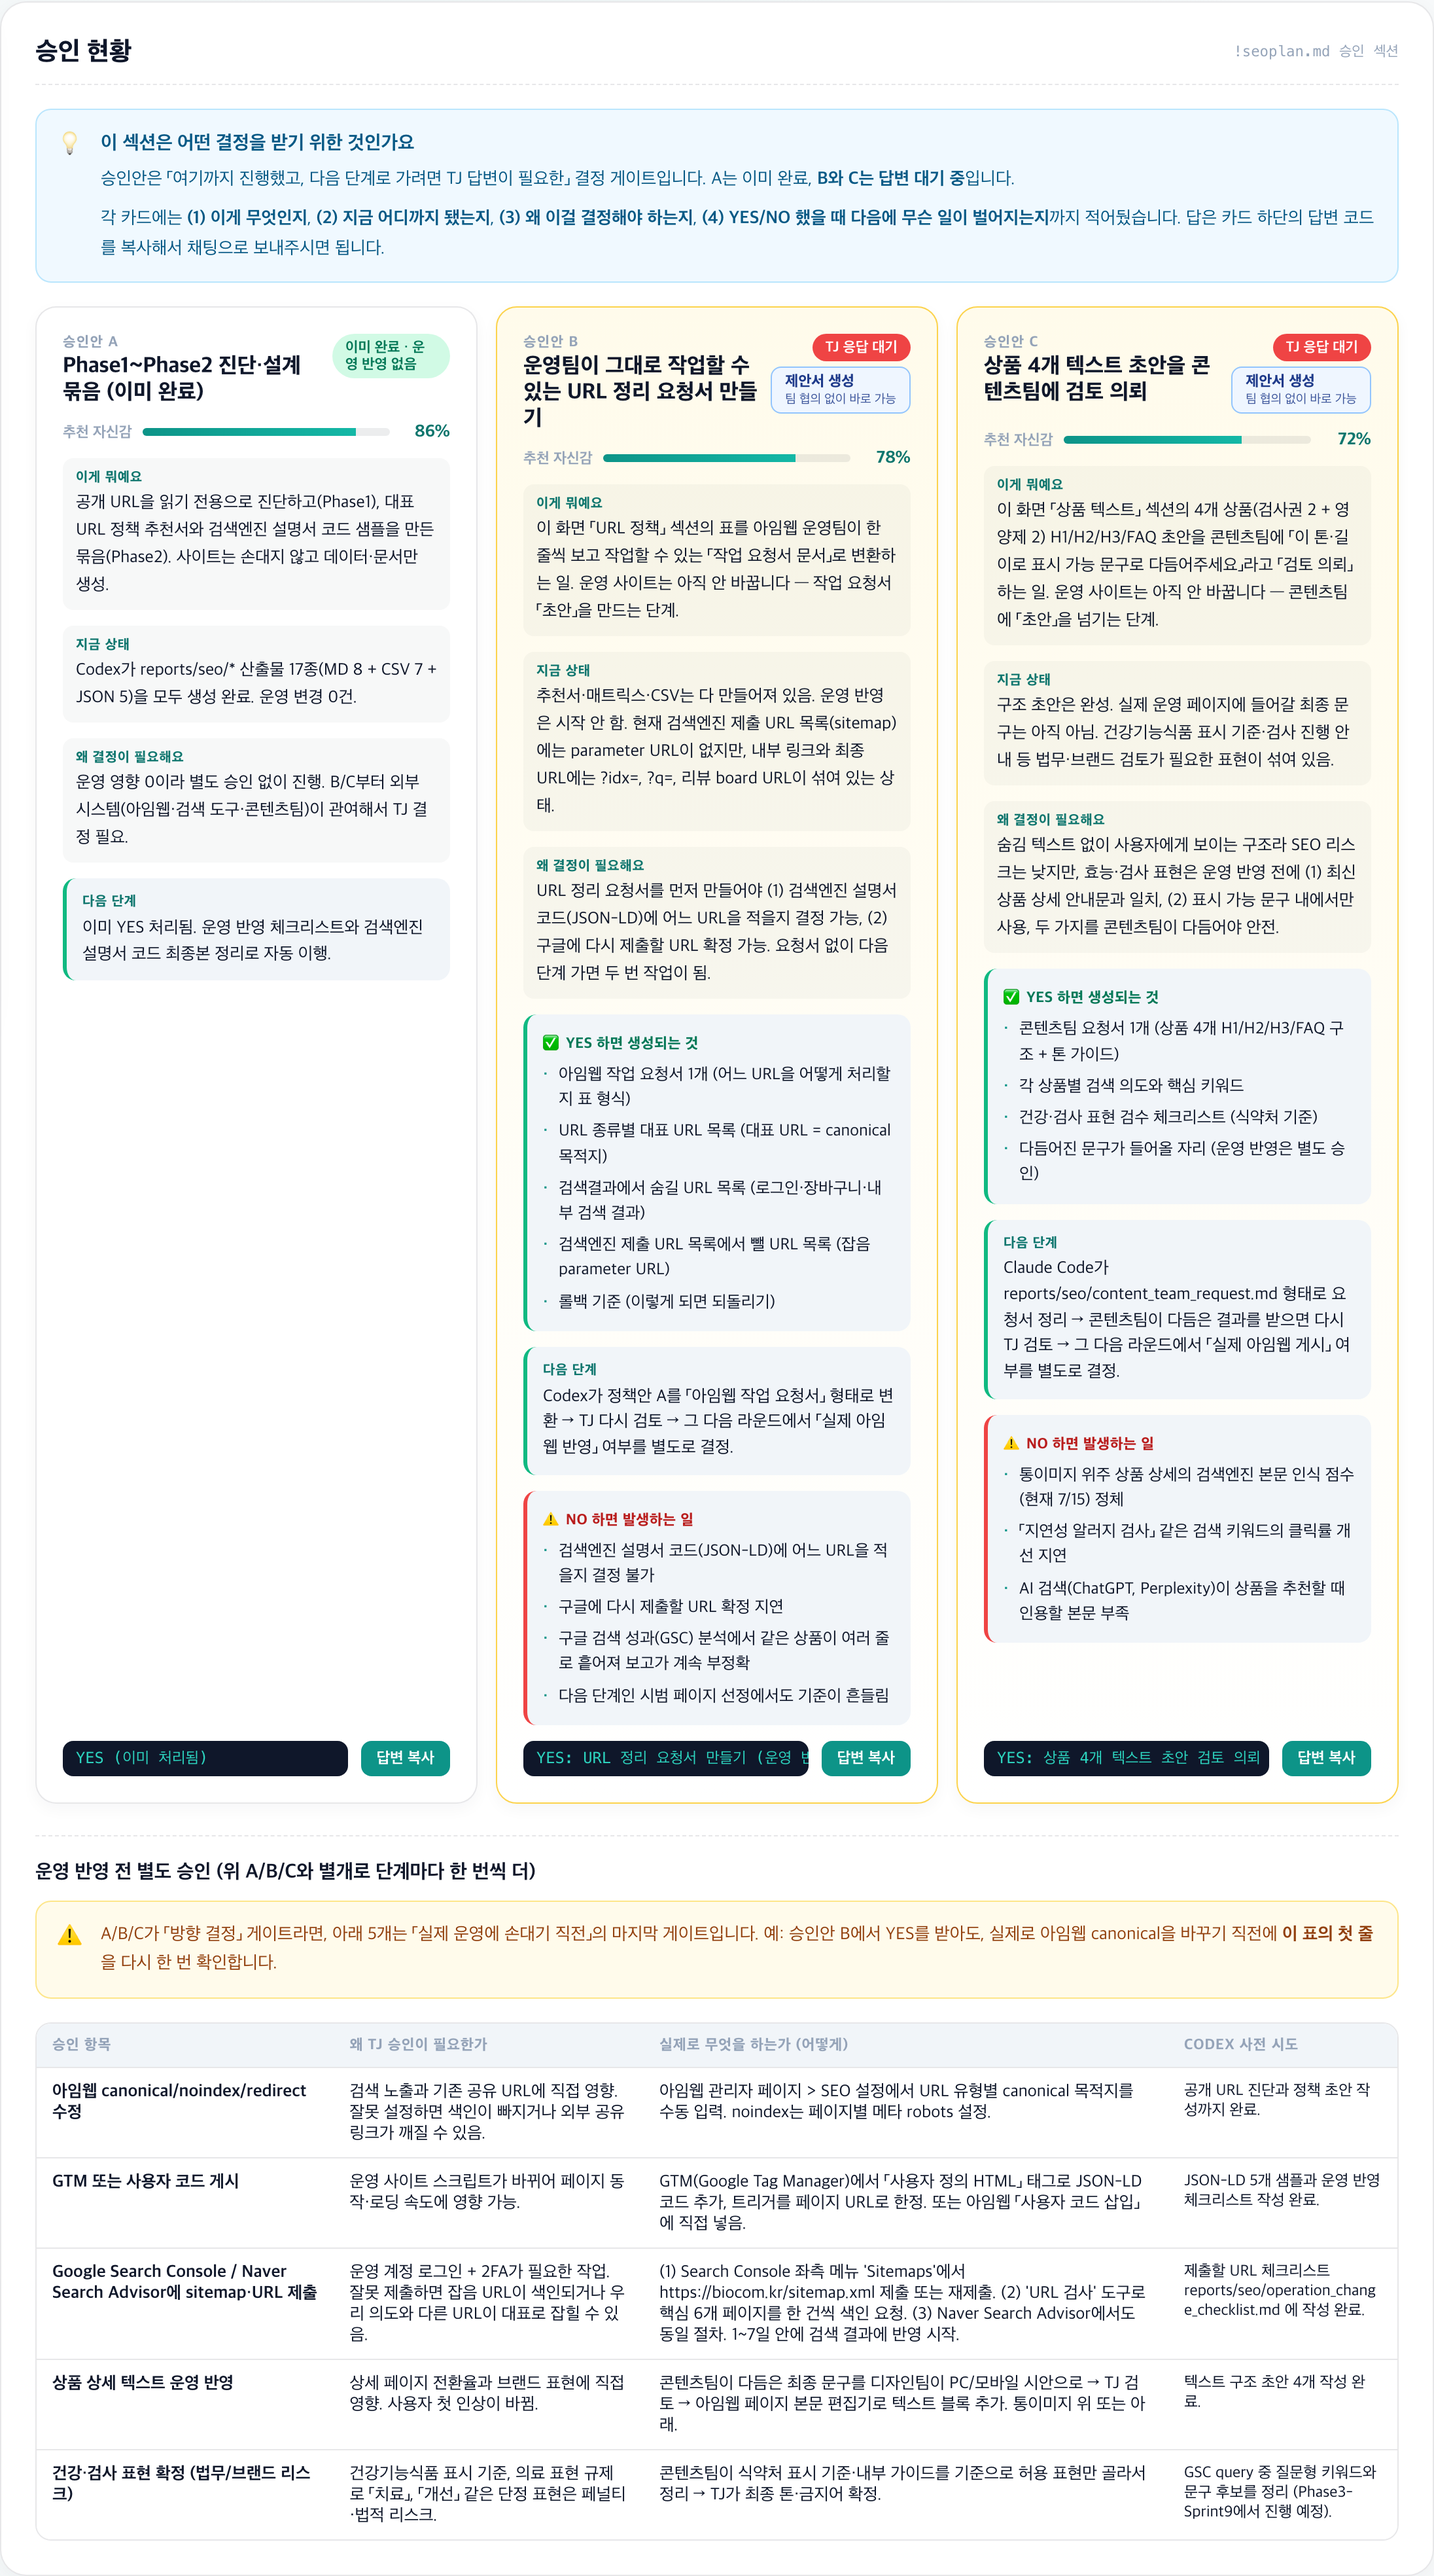
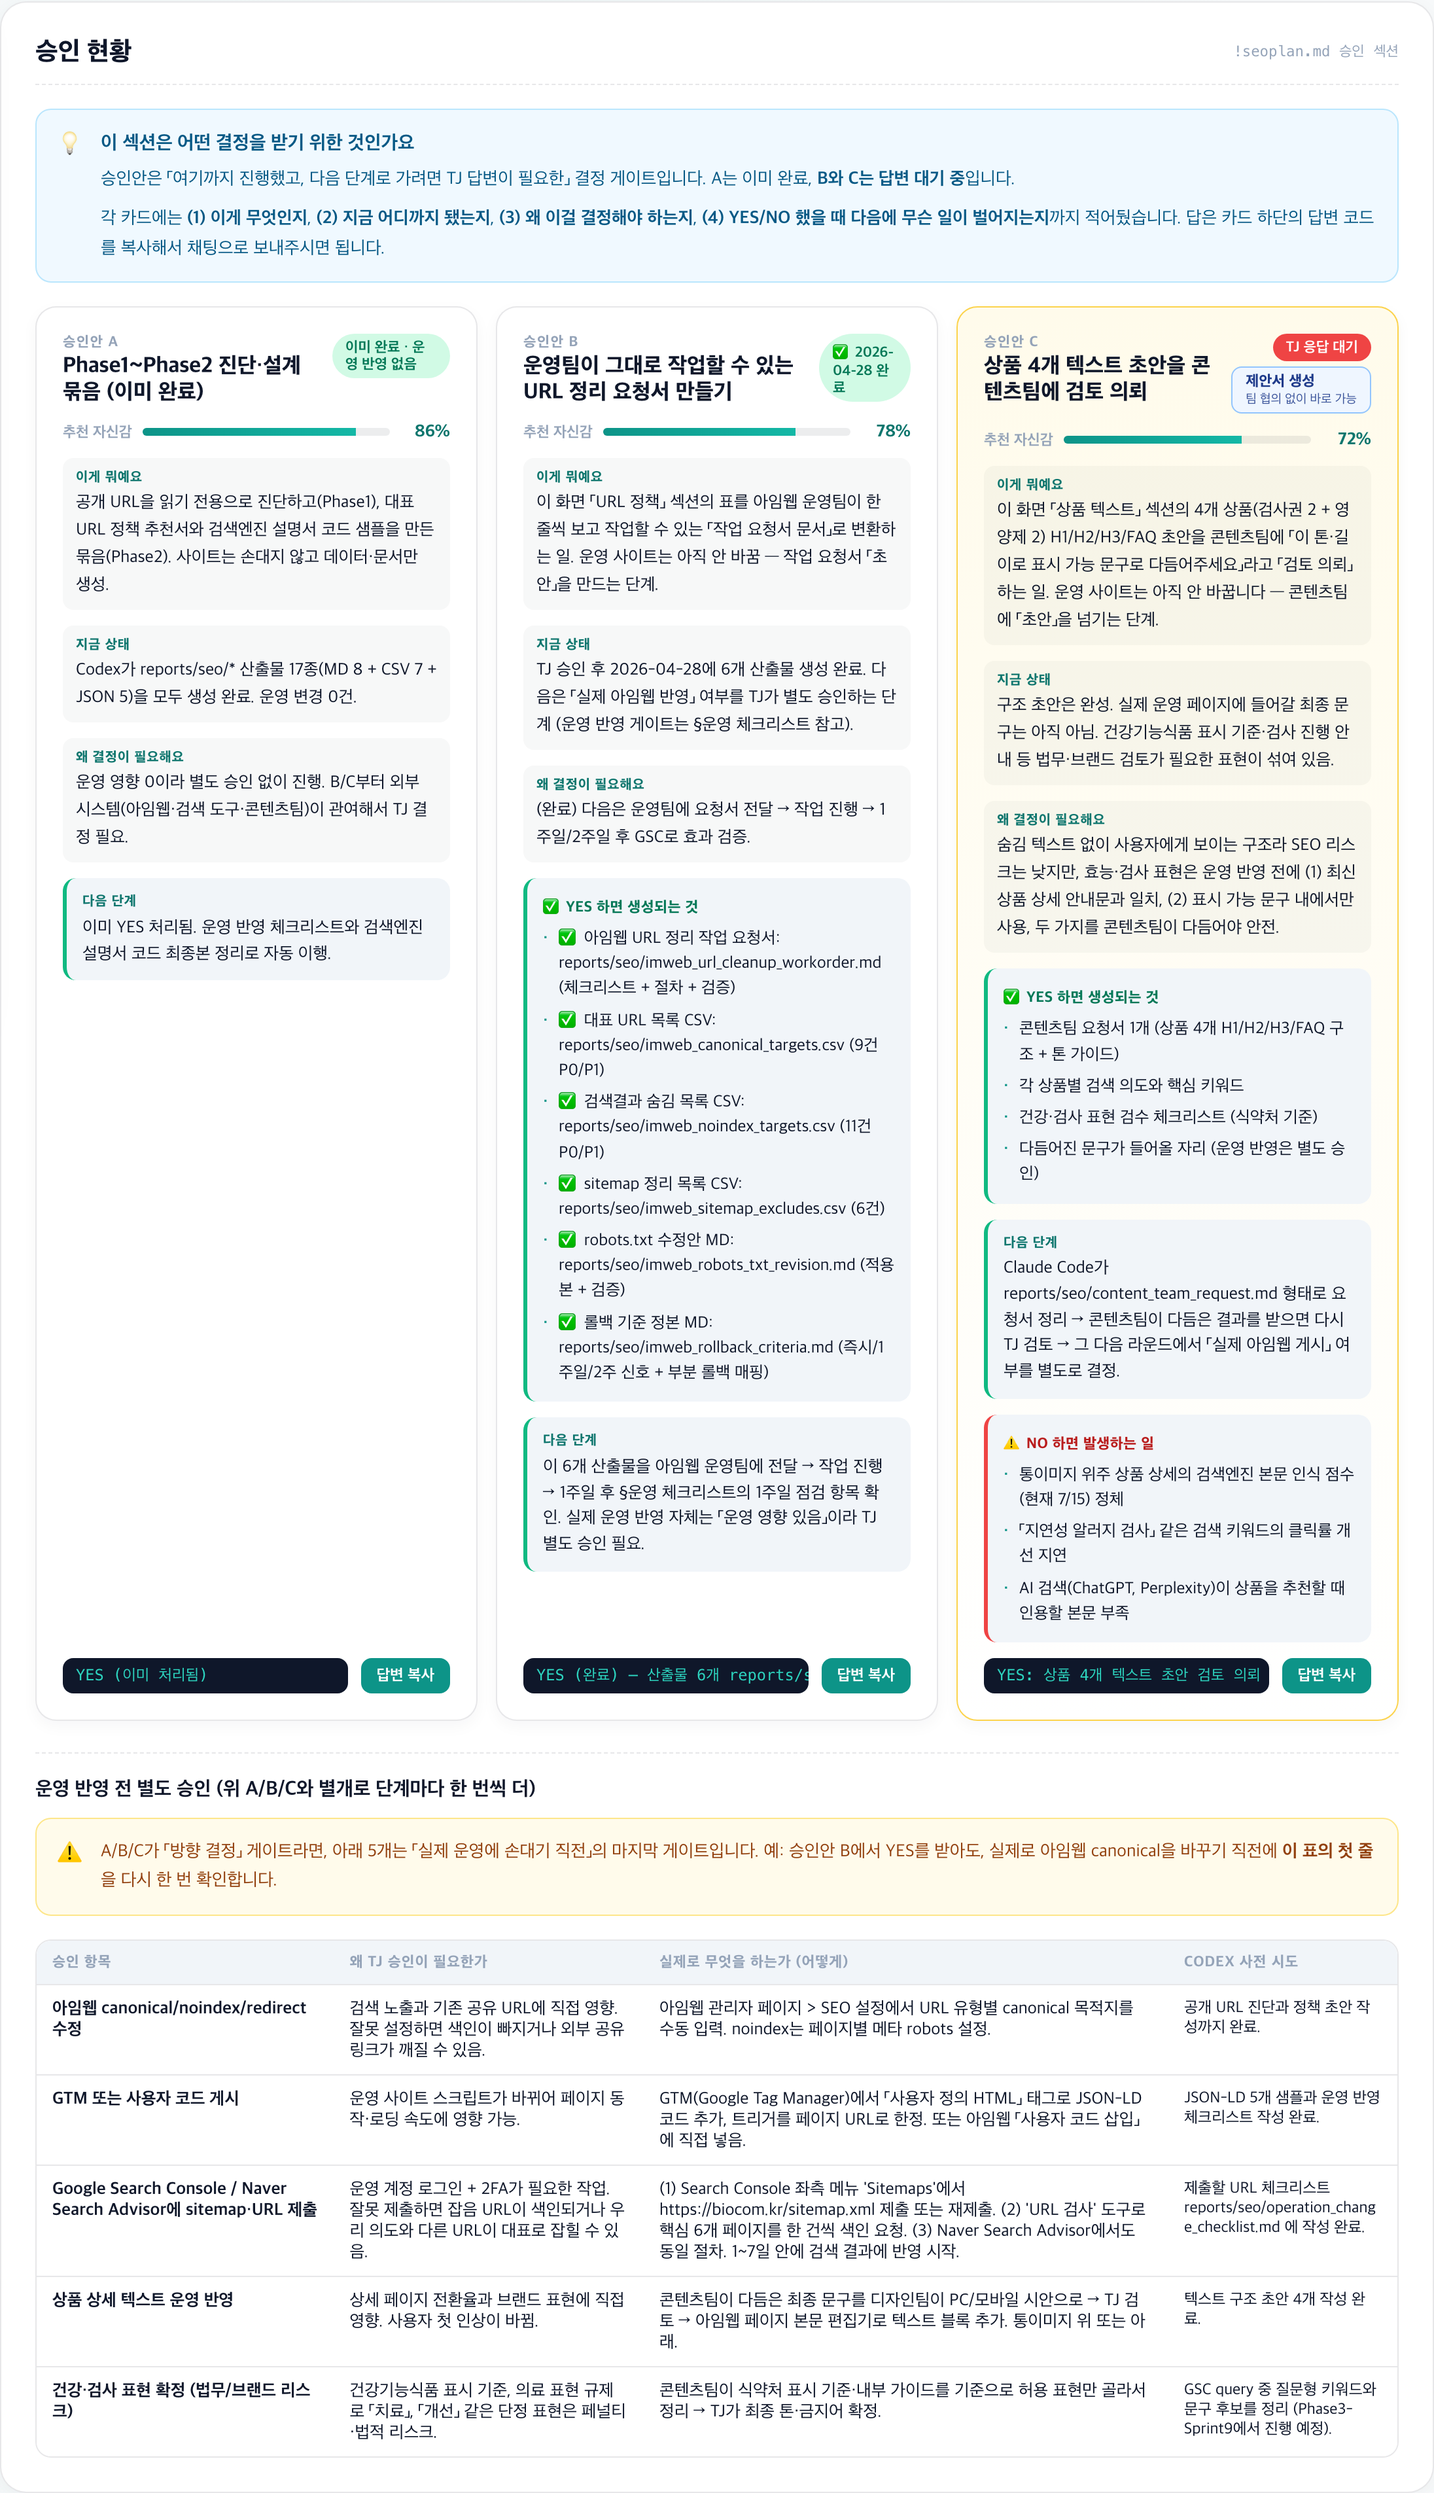
seo: update approval b plan screenshots

diff --git a/seo/!seoplan.md b/seo/!seoplan.md
@@ -1,7 +1,7 @@
 # 바이오컴 SEO/AEO 실행 플랜
 
 작성 시각: 2026-04-27 18:54 KST  
-최근 업데이트: 2026-04-28 KST (UX 2차 고도화 — 결정 박스·업무 언어·문제만 보기·결정 결과물·GSC baseline·canonical 검증·AEO 설명)  
+최근 업데이트: 2026-04-28 KST (✅ 승인안 B 진행 완료 — 아임웹 URL 정리 작업 요청서 6개 산출물 생성)  
 기준일: 2026-04-28  
 연결 문서: [[seofeedback0427|seo/seofeedback0427.md]], [[seofeedback0427reply|seo/seofeedback0427reply.md]], [[!frontmenu|seo/!frontmenu.md]], [[docurule|docurule.md]]  
 스크린샷: [seo/screnshot/](./screnshot/) (00_full_page · 01_overview · 02_live_gsc · 03_url_policy · 04_jsonld · 05_product_text · 06_checklist · 07_approvals)  
@@ -89,6 +89,38 @@ Confidence: 87%
 - 상품 텍스트 블록 초안: `reports/seo/product_text_block_drafts.md`
 - 상품 텍스트 매트릭스: `reports/seo/product_text_block_matrix.csv`
 - 운영 반영 체크리스트: `reports/seo/operation_change_checklist.md`
+
+### 2026-04-28 진행 (✅ 승인안 B 완료 — 아임웹 URL 정리 작업 요청서)
+
+#### 승인 결정
+
+- **TJ 회신**: "승인안 B 운영팀이 그대로 작업할 수 있는 URL 정리 요청서 만들기 진행해" (2026-04-28)
+- **범위**: 정책안 A 전체 (제외 조건 없음)
+- **운영 영향**: 0 (요청서·CSV·MD 산출물만 생성. 실제 아임웹 반영은 별도 승인)
+
+#### 생성된 산출물 (6종)
+
+| 파일 | 용도 | 행수 |
+|---|---|---|
+| `reports/seo/imweb_url_cleanup_workorder.md` | 운영팀이 한 줄씩 보고 작업 가능한 정본 (절차·검증·롤백 통합) | ~7섹션 |
+| `reports/seo/imweb_canonical_targets.csv` | 대표 URL 통일 대상 9건 (P0/P1) | 9 |
+| `reports/seo/imweb_noindex_targets.csv` | 검색결과 숨김 대상 11건 (P0/P1) | 11 |
+| `reports/seo/imweb_sitemap_excludes.csv` | sitemap 정리·모니터링 대상 6건 | 6 |
+| `reports/seo/imweb_robots_txt_revision.md` | robots.txt 수정안 (Markdown 링크 → 일반 URL + 잡음 차단 6 규칙) | — |
+| `reports/seo/imweb_rollback_criteria.md` | 즉시/1주일/2주 롤백 신호 + 부분 롤백 매핑 | — |
+
+#### 화면 반영
+
+- `/seo` 승인 현황 카드 B: status "✅ 2026-04-28 완료" + 산출물 6개 그린 체크 리스트
+- 본문 최상단 결정 박스: "오늘 TJ님 결정 1개 (B는 ✅ 완료)" 헤더, C 카드만 잔존
+
+#### 다음 단계 (TJ 결정 필요)
+
+1. 운영팀에 요청서 6종 전달 (Slack / 이메일 / 별도 채팅)
+2. 운영팀이 작업 진행 — `imweb_url_cleanup_workorder.md`의 §2 체크리스트 따라
+3. 작업 완료 1주일 후: §3 1주일 점검 (GSC 색인·트래픽·핵심 페이지 상태)
+4. 작업 완료 2주일 후: 같은 키워드 검색 결과에서 우리 페이지가 1개 URL로 모이는지 확인
+5. 추가 라운드: 효과 측정 baseline (`/seo > 성과 기준선`) 비교 → 승인안 D 결정 (텍스트 블록 운영 반영)
 
 ### 2026-04-28 진행 (UX 2차 고도화 + GSC P0 작업 진수)
 
@@ -494,15 +526,17 @@ API 한계 안내: 모든 카드에 「GSC API는 모든 행을 반환하지 않
 답변 형식: `YES: 대표 URL 정책안 A로 운영 요청서 작성` 또는 `NO: 상품 URL은 기존 /HealthFood/?idx= 형태 유지`  
 YES 이후 Codex 작업: 운영 반영 체크리스트와 JSON-LD 삽입 코드 블록을 최종본으로 정리한다.
 
-### 승인안 B
+### 승인안 B ✅ 2026-04-28 완료
 
 추천안 B: `reports/seo/url_policy_recommendations.md`의 정책안 A를 기준으로 운영 요청서를 만든다. 상품/검사권은 canonical 목적지와 JSON-LD url을 일치시키고, 리뷰/검색/로그인 계열은 sitemap 제외와 noindex 후보로 둔다.
 
-제 추천: YES  
-추천 자신감: 78%  
-이유: 현재 sitemap에는 parameter URL이 없지만 내부 링크와 최종 URL에는 `?idx=`, `?q=`, 리뷰 board URL이 섞여 있다. 대표 URL 정책을 먼저 고정해야 JSON-LD와 Search Console 제출이 흔들리지 않는다.  
-부족 데이터: 아임웹 관리자에서 canonical 목적지를 직접 바꿀 수 있는지, Search Console에 실제 색인된 잡음 URL 수  
-답변 형식: `YES` 또는 `NO: 리뷰/검색 URL noindex는 보류`
+**TJ 회신**: "승인안 B 운영팀이 그대로 작업할 수 있는 URL 정리 요청서 만들기 진행해" (2026-04-28)
+**범위**: 정책안 A 전체 (제외 조건 없음)
+**산출물**: `reports/seo/imweb_*.md/csv` 6종 (위 「2026-04-28 진행 (✅ 승인안 B 완료)」 섹션 참고)
+**운영 영향**: 0 (요청서·CSV·MD 생성만. 실제 아임웹 반영은 별도 승인 필요)
+**다음 단계**: 운영팀에 요청서 전달 → 작업 진행 → 1주일/2주 검증 → 효과 측정 후 승인안 D (텍스트 블록 반영) 결정
+
+추천 자신감: 78%
 
 ### 승인안 C
 
